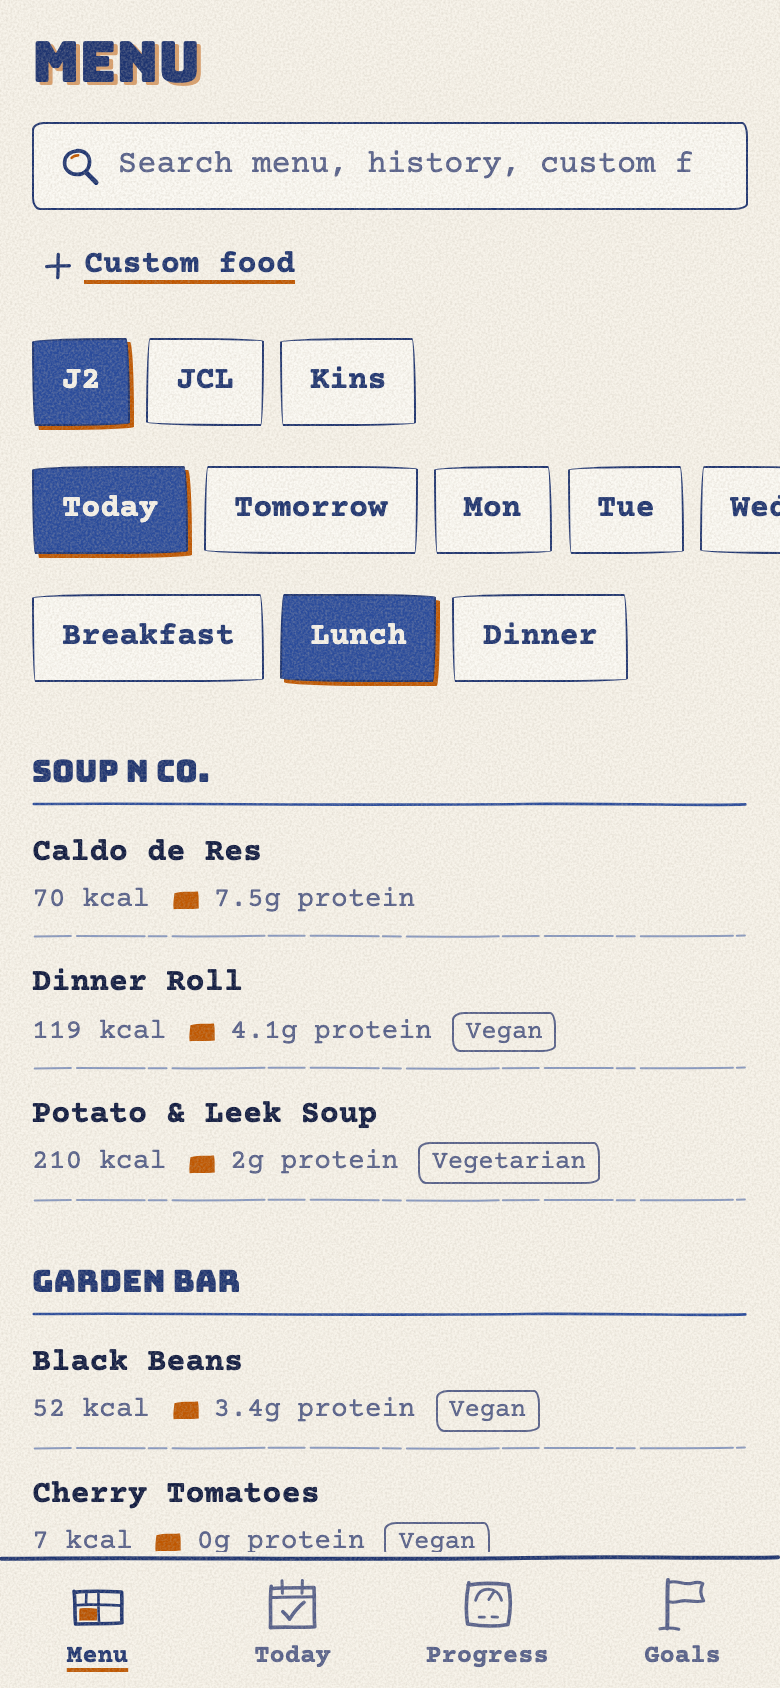
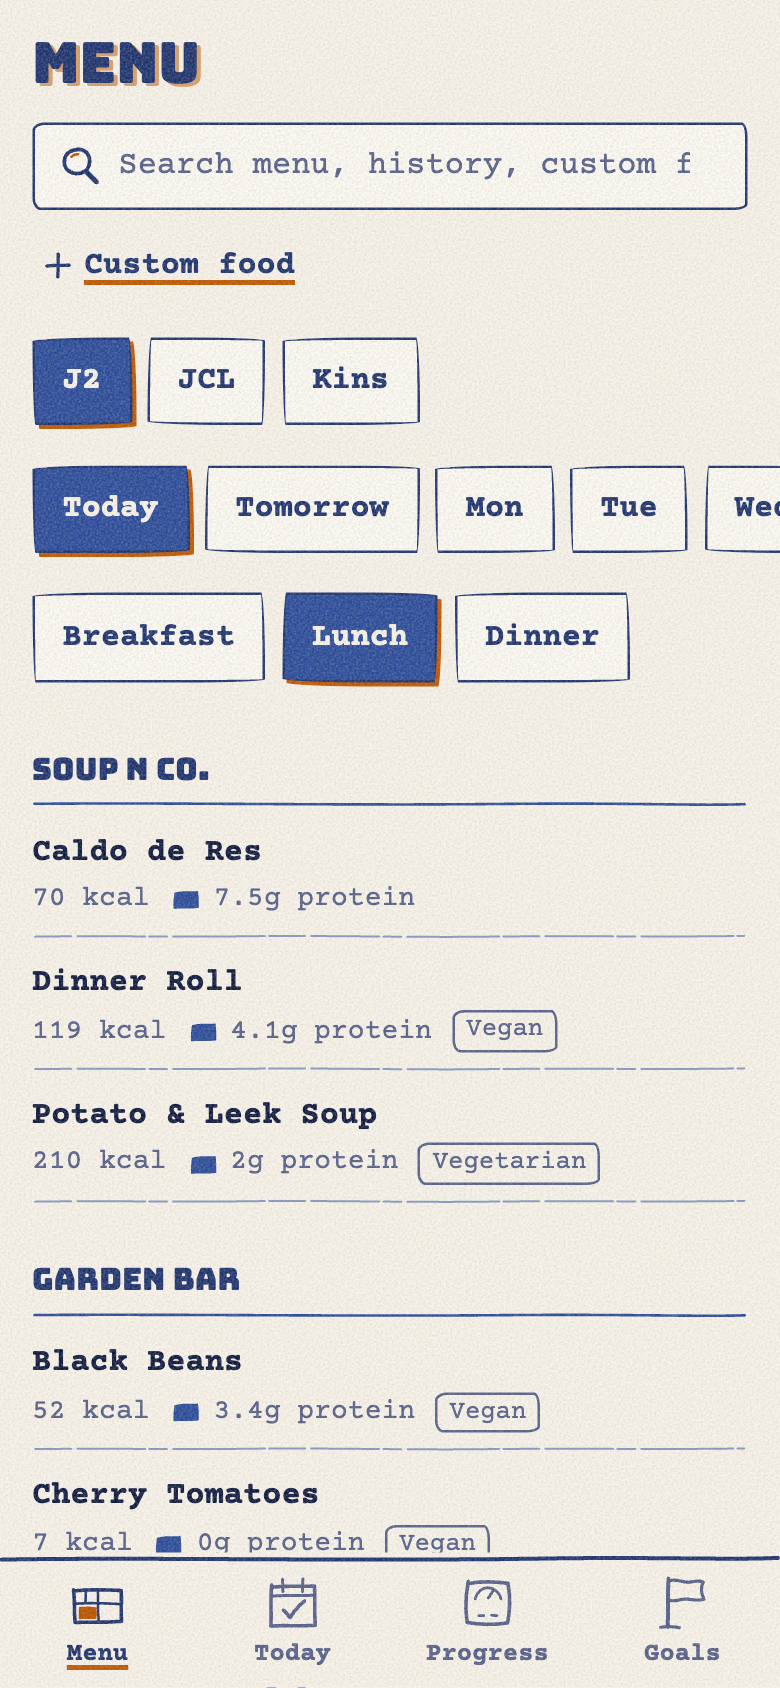
style: final ink assignment (protein blue, calories orange), drop swipe

diff --git a/src/ui/styles.css b/src/ui/styles.css
@@ -104,7 +104,7 @@ button.icon-btn { display: inline-grid; place-items: center; padding: 0; border:
 .plate { fill: var(--orange); mix-blend-mode: multiply; }
 .plate-line { stroke: var(--orange); mix-blend-mode: multiply; }
 .swatch { width: 16px; height: 12px; margin-right: 6px; vertical-align: -1px; flex: none; }
-.ink-protein .ink-fill { fill: var(--orange); }
+.ink-protein .ink-fill { fill: var(--blue); }
 .ink-carbs .ink-fill { fill: var(--teal); }
 .ink-fat .ink-fill { fill: var(--mustard); stroke: var(--blue); stroke-width: 1.2; }
 
@@ -252,10 +252,7 @@ button.icon-btn { display: inline-grid; place-items: center; padding: 0; border:
 .date-nav h2 { margin: 0; font-family: var(--display); font-weight: 400; font-size: 1.3rem; text-align: center; color: var(--ink); }
 .calories { margin: 0 0 8px; }
 .hero-label { margin: 6px 0 0; font-size: 0.9rem; font-weight: 700; letter-spacing: 0.04em; color: var(--ink); }
-.hero-num { position: relative; display: flex; align-items: baseline; gap: 10px; width: fit-content; margin: 2px 0 4px; padding: 6px 16px 2px 6px; }
-.swipe { position: absolute; left: -4px; top: 2px; width: calc(100% + 4px); height: 100%; transform: translate(2px, 1.5px) rotate(-0.8deg); mix-blend-mode: multiply; overflow: visible; }
-.swipe path { fill: var(--orange); fill-opacity: 0.22; }
-.swipe .swipe-streak { fill-opacity: 0.16; }
+.hero-num { position: relative; display: flex; align-items: baseline; gap: 10px; width: fit-content; margin: 2px 0 4px; padding: 4px 6px 0 2px; }
 .big {
   position: relative; font-family: var(--display); font-size: 4.5rem; line-height: 0.95; font-variant-numeric: tabular-nums;
   color: transparent; -webkit-text-stroke: 2px var(--blue); paint-order: stroke; transform: translate(-1px, 1px) rotate(0.4deg);
@@ -271,7 +268,9 @@ button.icon-btn { display: inline-grid; place-items: center; padding: 0; border:
 .bar-outline { fill: none; stroke: var(--ink); stroke-width: 1.7; stroke-linecap: round; vector-effect: non-scaling-stroke; }
 .bar-hatch { fill: none; stroke: var(--blue); stroke-width: 1; stroke-linecap: round; opacity: 0.8; vector-effect: non-scaling-stroke; }
 .bar-fill { mix-blend-mode: multiply; }
-.ink-calories .bar-fill, .ink-protein .bar-fill { fill: var(--orange); }
+.ink-calories .bar-fill { fill: var(--orange); }
+/* Protein is a solid blue plate; the blue hatch beside it is line-only, so filled and left never read alike. */
+.ink-protein .bar-fill { fill: var(--blue); }
 .ink-carbs .bar-fill { fill: var(--teal); }
 .ink-fat .bar-fill { fill: var(--mustard); stroke: var(--blue); stroke-width: 1.2; vector-effect: non-scaling-stroke; }
 .bar-fill.over ~ .bar-hatch { stroke: var(--ink-deep); opacity: 1; stroke-width: 1.3; }

diff --git a/src/ui/today/TodayScreen.tsx b/src/ui/today/TodayScreen.tsx
@@ -67,10 +67,6 @@ export function TodayScreen({ onGo }: { onGo: (tab: Tab) => void }) {
       <section class="calories" aria-label="Calories">
         <p class="hero-label">{left === null ? 'calories eaten' : left < 0 ? 'target passed' : 'calories left'}{viewDate === today ? ' today' : ''}</p>
         <p class={`hero-num${left !== null && left < 0 ? ' over' : ''}`}>
-          <svg class="swipe" viewBox="0 0 190 72" preserveAspectRatio="none" aria-hidden="true">
-            <path d="M6.2 12.4C44 9.8 104 9.4 184.6 7.2 186.4 9.6 185 20 184.2 34 183.4 48 185.6 57.4 183 63.6 132 64.8 64 65.2 4.4 68.2 2.4 65.4 4.6 52 4 38.6 3.6 26 2.8 17.6 6.2 12.4Z" />
-            <path class="swipe-streak" d="M5.4 14.2C58 12.4 120 11 184.8 9.6L184 18.4C122 19.8 58 21.6 4.8 23.6Z" />
-          </svg>
           <span class="big" data-ink={n(left === null ? eaten : Math.abs(left))}>{n(left === null ? eaten : Math.abs(left))}</span>
           {left !== null && left < 0 && <span class="over-word"> over</span>}
         </p>

diff --git a/DESIGN.md b/DESIGN.md
@@ -87,7 +87,7 @@ Under the texture it is still a tool used standing in the J2 line with one thumb
 The theme is light only (`color-scheme: light`). A printed page does not invert; there is no dark mode.
 
 **Key Characteristics:**
-- Two inks plus paper; three extra macro inks used only for protein, carbs and fat.
+- Two inks plus paper; two extra macro inks used only for carbs (teal) and fat (mustard). Protein prints in the blue drum as a solid fill, calories in the orange.
 - Misregistration is the signature: orange plate offset 1.5 to 3px from the blue.
 - Hand-drawn SVG for every mark; no icon library, no stock primitives.
 - Motion is rare: the "line boil" on doodles, the sheet slide, the toast. Reduced motion stops all of them, plus the tab plate fade.
@@ -95,19 +95,19 @@ The theme is light only (`color-scheme: light`). A printed page does not invert;
 
 ## 2. Colors
 
-A two-ink riso palette on warm stock, with three macro inks that only ever mean one nutrient each.
+A two-ink riso palette on warm stock, with two extra macro inks that only ever mean one nutrient each.
 
 ### Primary
-- **Federal Blue** (#2B4C9B): linework, bar outlines' hatch, chart dots, primary buttons, selected chips, toast.
+- **Federal Blue** (#2B4C9B): linework, bar outlines' hatch, chart dots, primary buttons, selected chips, toast. Also the protein ink, always as a solid fill (never as a line), so it stays distinct from blue hatch and type.
 - **Ink** (#1E3470): all body type and hand-drawn strokes (10.6:1 on paper).
 - **Deep Ink** (#0F1A40): food names, eaten amounts, values in tables (15.3:1).
 - **Soft Ink** (#56608A): secondary text: servings/portion, meta rows, units, chart labels (5.5:1 on paper, headroom left for grain).
 
 ### Secondary
-- **Burnt Orange** (#BF5700): the second drum. Highlighter swipe, big-number fill, active-tab plate, primary-button offset plate, link underlines, calorie and protein bars. Always multiplied; never used for body text (4.1:1).
+- **Burnt Orange** (#BF5700): the second drum. Big-number overprint, active-tab plate, primary-button offset plate, link underlines, the calories-eaten bar. Always multiplied; never used for body text (4.1:1).
 
 ### Tertiary (macro inks)
-- **Protein: Burnt Orange** (#BF5700).
+- **Protein: Federal Blue** (#2B4C9B), solid fill. Calories keep the orange.
 - **Carbs: Riso Teal** (#00838A).
 - **Fat: Riso Mustard** (#E0A800), always with a blue hand-drawn outline so it reads on paper.
 
@@ -118,9 +118,9 @@ A two-ink riso palette on warm stock, with three macro inks that only ever mean 
 - **Over** (#9A3412): over-target amounts, errors, invalid fields (6.6:1). Always paired with words ("over", the error message).
 
 ### Named Rules
-**The Macro Ink Rule.** Protein is orange, carbs teal, fat mustard, everywhere they appear: bars, swatches in the nutrient table, the targets panel, the protein figure on menu rows and stats. The name always sits beside the ink.
+**The Macro Ink Rule.** Calories are orange, protein blue, carbs teal, fat mustard, everywhere they appear: bars, swatches in the nutrient table, the targets panel, the protein figure on menu rows and stats. The name always sits beside the ink.
 
-**The Two Drum Rule.** Anything decorative is blue or orange. The macro inks are data, not decoration.
+**The Two Drum Rule.** Anything decorative is blue or orange. The macro inks are data, not decoration. Blue as protein data is always a solid plate; blue as decoration is always a line or hatch.
 
 ## 3. Typography
 
@@ -132,7 +132,7 @@ Both self-hosted as latin-subset woff2 under `public/fonts/` (OFL, licence files
 **Character:** Bungee is the rubber stamp; Courier Prime is the typewritten copy. Bungee is caps-only, so it is kept to numerals and short headings; units next to a Bungee number are set in Courier (`734 kcal`, not `734 KCAL`).
 
 ### Hierarchy
-- **Display** (Bungee, 4.5rem, 0.95): the calories-left numeral only. Blue 2px outline, orange multiply fill offset (2.5px, -2px), on a hand-drawn orange highlighter swipe at 22% fill so the orange numeral still separates from it. The overprint is a `::before` with empty alt text (`content: attr(data-ink) / ''`) so screen readers hear the number once.
+- **Display** (Bungee, 4.5rem, 0.95): the calories-left numeral only. Blue 2px outline, orange multiply fill offset (2.5px, -2px), straight on the paper (the highlighter swipe behind it was dropped at owner review). The overprint is a `::before` with empty alt text (`content: attr(data-ink) / ''`) so screen readers hear the number once.
 - **Headline** (Bungee, 1.75rem): screen mastheads, with a 2px/1.5px orange text-shadow as the off-register plate.
 - **Title** (Bungee, 0.95 to 1.3rem): date line, station and meal headers, sheet titles, stat values.
 - **Body** (Courier Prime 400, 1rem, 1.45): everything else. Inputs never below 16px.
@@ -163,7 +163,7 @@ Three hand-inked frames of the same doodle, swapped at ~8fps with `step-end` vis
 Fixed hand-drawn outline; the fill's right edge carries a hand-picked wobble that moves with the amount; the part still left is hatched in blue. Over target: the fill runs full and dark cross-hatch overprints it, and the text says "over". `role="progressbar"` with value text.
 
 ### Today hero
-Label ("calories left today" / "target passed today" / "calories eaten today" with no targets), the stamped numeral on the swipe (plus "over" when over), "**eaten** eaten of **target**" (no unit; the label already says calories), then the full-width calories InkBar. Macro rows below share one subgrid so the three bars align.
+Label ("calories left today" / "target passed today" / "calories eaten today" with no targets), the stamped numeral (plus "over" when over), "**eaten** eaten of **target**" (no unit; the label already says calories), then the full-width calories InkBar in orange. Macro rows below share one subgrid so the three bars align.
 
 ### Buttons
 - **Shape:** hand-drawn wobble radius (`255px 12px 225px 10px / 12px 225px 10px 255px`), 1.5px ink border, 44px tall.
@@ -189,7 +189,7 @@ Blue weigh-in dots drawn as lumpy ink blobs (four quadratic curves, turned per i
 - **Do** check every new text color against paper at 4.5:1 with grain in mind.
 - **Don't** add dark mode or auto-invert.
 - **Don't** use orange for text below 18px bold.
-- **Don't** use a macro ink for anything but its macro, or a macro ink without its name.
+- **Don't** use teal or mustard for anything but their macro, fill anything but protein with solid blue in a data mark, or show a macro ink without its name.
 - **Don't** pull icons from a library or draw marks with perfect primitives.
 - **Don't** add soft shadows, gradients, glass or side-stripe borders.
 - **Don't** animate anything else on a loop; the boil is for doodles only.
